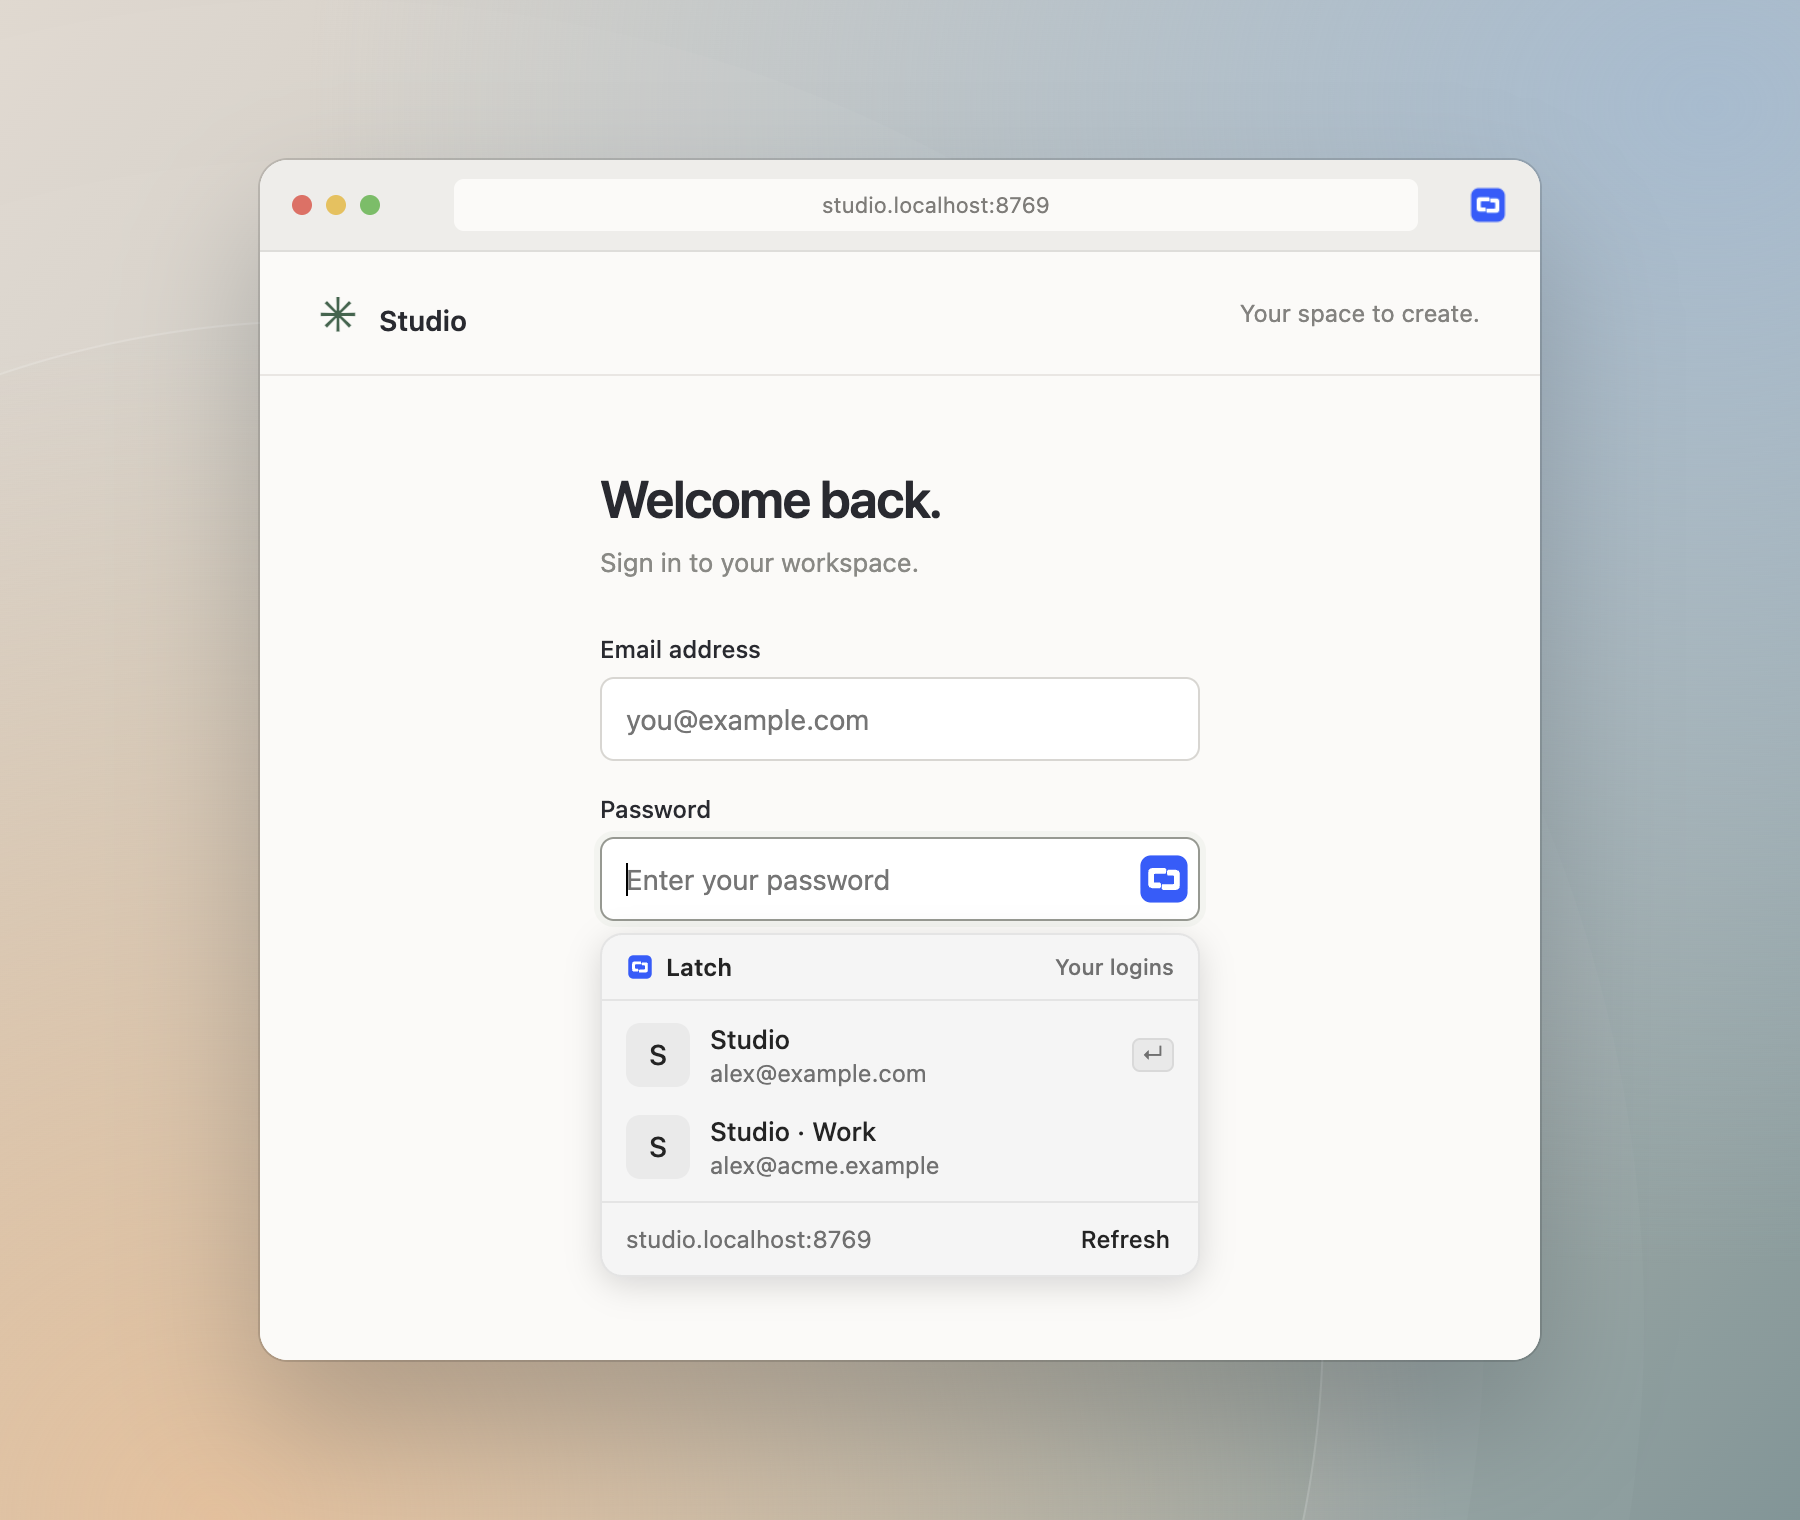
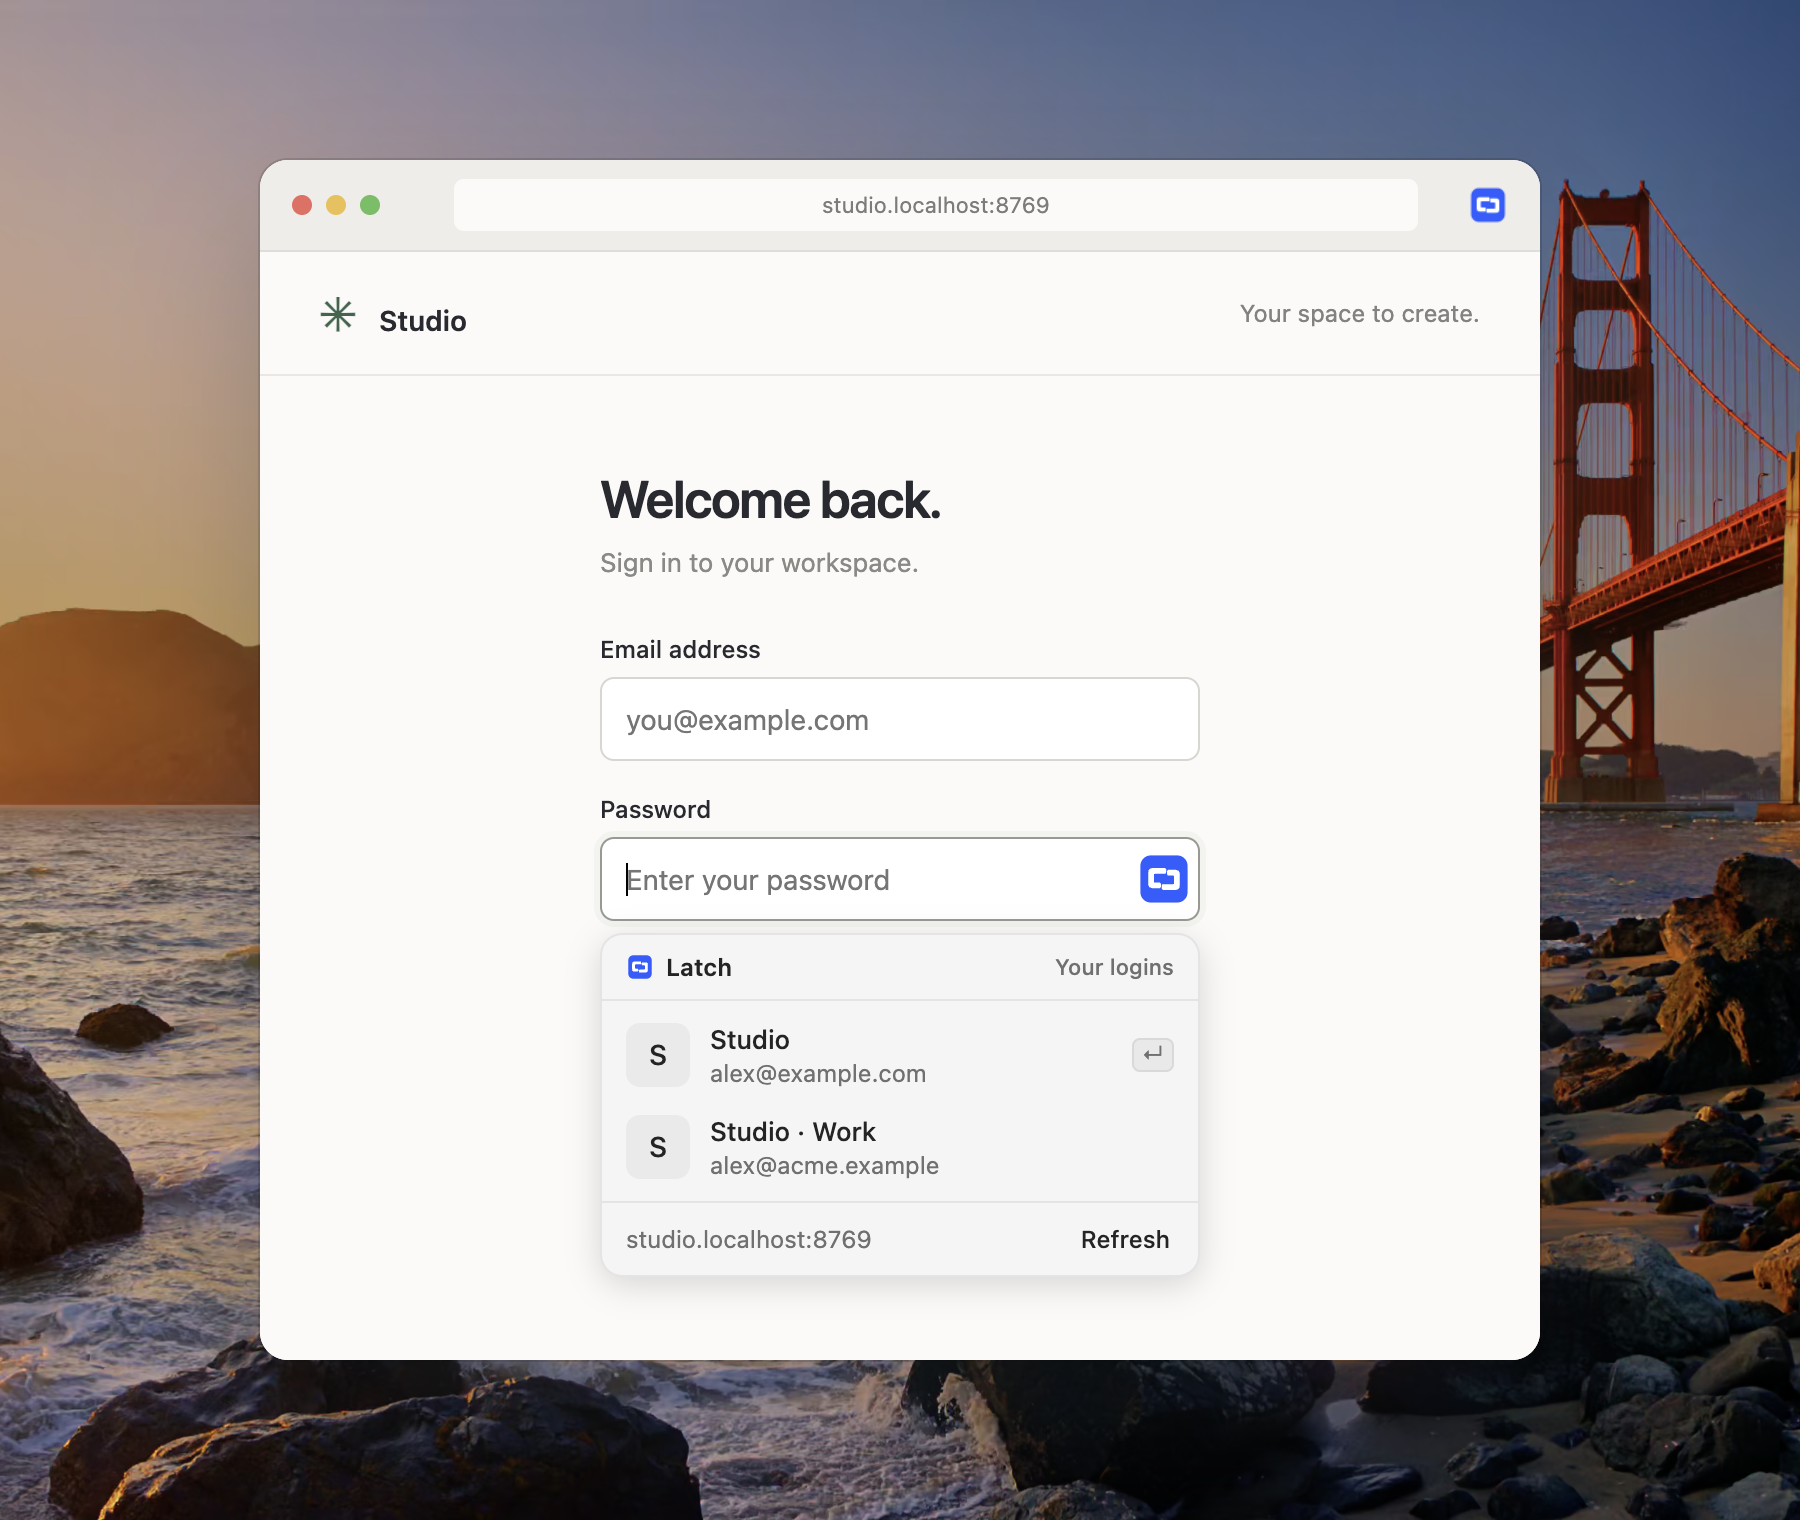
docs: use macOS wallpaper and add Raycast preview

diff --git a/README.md b/README.md
@@ -63,6 +63,10 @@ brew install --cask dillionverma/tap/latch
 
 [Download source ZIP](https://github.com/dillionverma/latch/releases/download/v0.3.0/latch-0.3.0-raycast.zip) · [Setup](apps/raycast/README.md#install-from-source). Store installation coming soon.
 
+<p align="center">
+  <img src="assets/readme/raycast.png" alt="Latch vault search in Raycast with synthetic demo accounts on the macOS Golden Gate wallpaper." width="720" />
+</p>
+
 ## Development
 
 ```sh
